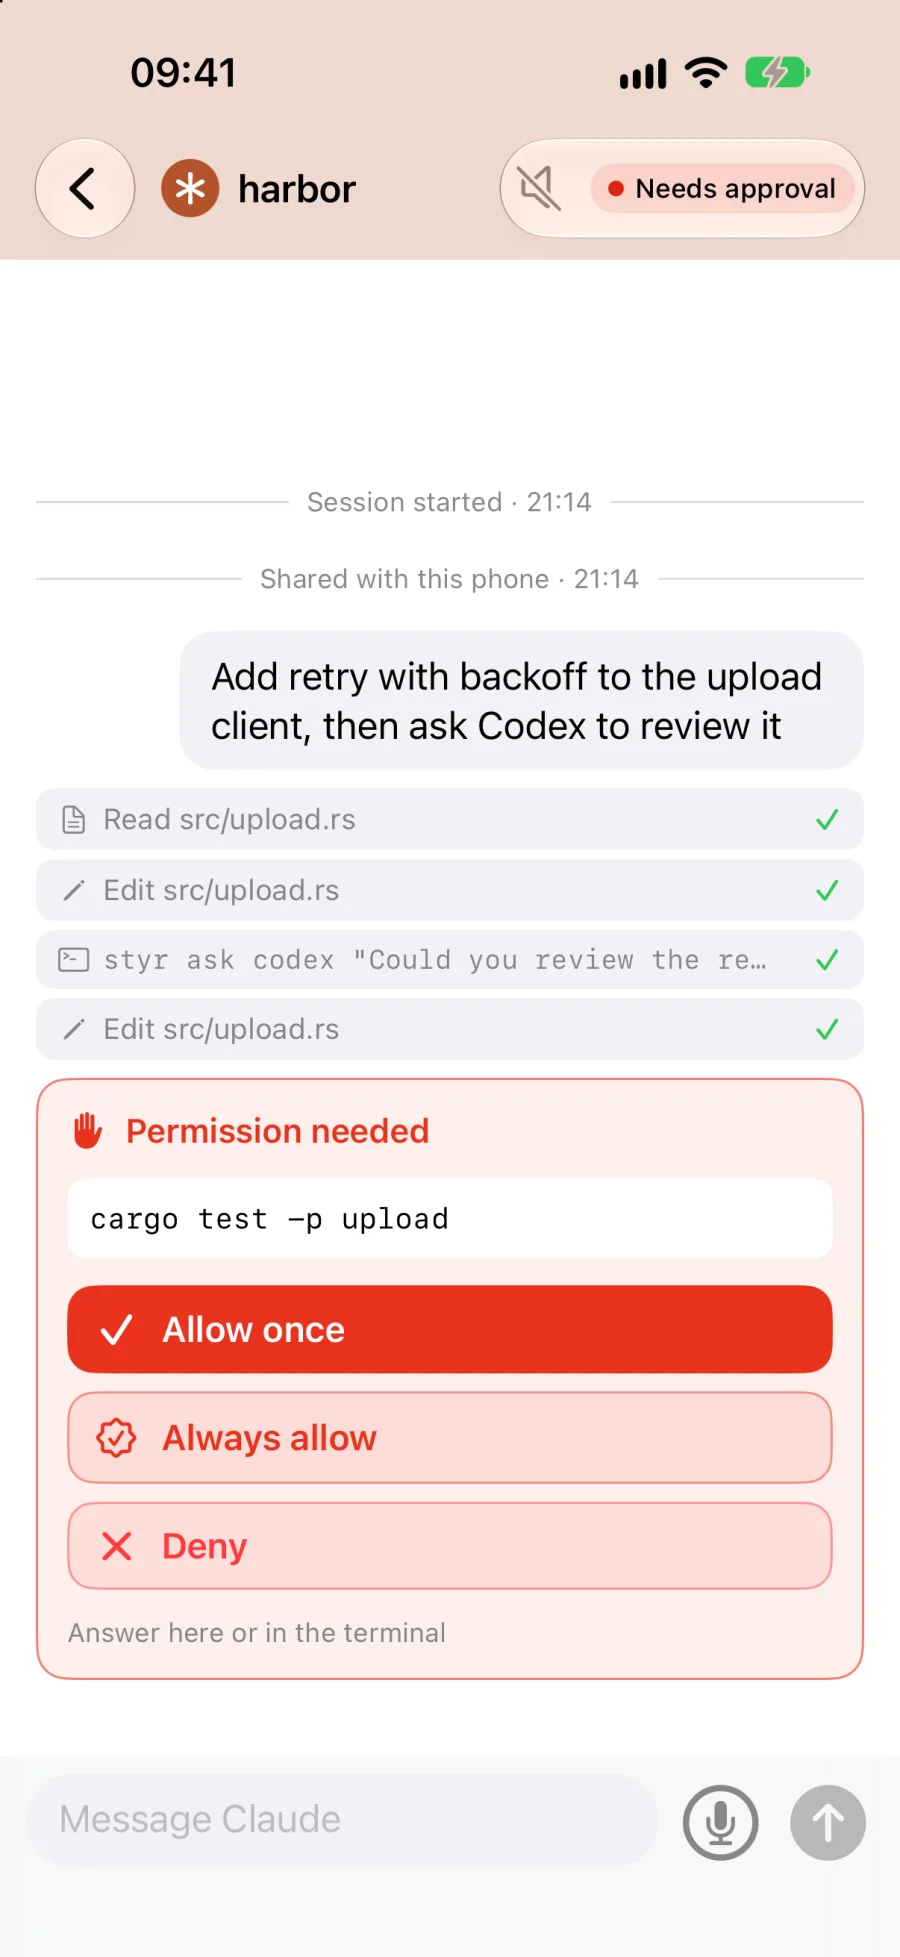
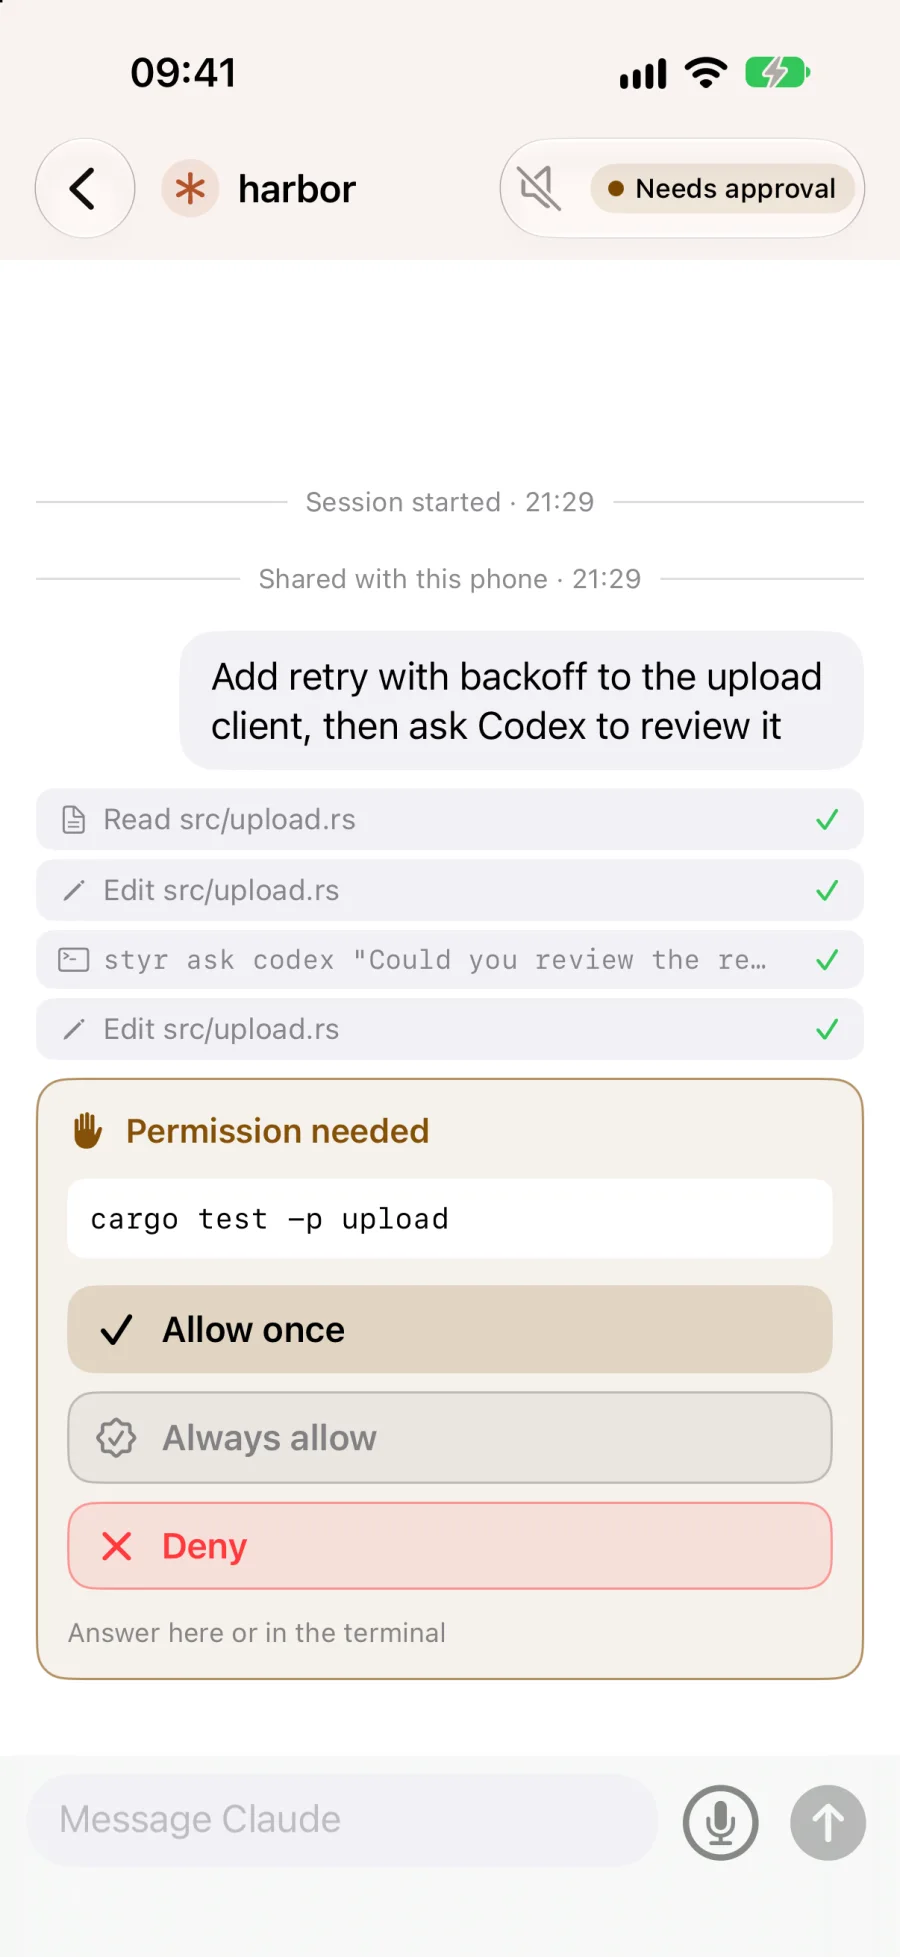
Website: screenshots of the restyled app
Retaken after the app's visual overhaul; the approval-card illustration follows
the new amber card (neutral Allow, red Deny). Preview image refreshed.

diff --git a/site/style.css b/site/style.css
@@ -249,15 +249,15 @@ html.has-js .toast[data-step].gone { opacity: 0; transform: translateY(-8px) sca
   .c-consult { grid-column: span 2; }
 }
 
-.mini-card { margin-top: 1.25rem; padding: .9rem; border-radius: .9rem; background: #fff3f1; border: 1px solid #f5c9c2; }
-.mc-head { display: flex; align-items: center; gap: .45rem; color: var(--signal-deep) !important; font-weight: 700; font-size: .85rem; margin-bottom: .6rem !important; }
-.mc-dot { width: .5rem; height: .5rem; border-radius: 50%; background: var(--signal); }
-@media (prefers-reduced-motion: no-preference) { .mc-dot { animation: pulse 1.6s ease-in-out infinite; } @keyframes pulse { 50% { box-shadow: 0 0 0 5px rgba(232, 50, 30, .18); } } }
+.mini-card { margin-top: 1.25rem; padding: .9rem; border-radius: .9rem; background: #fbf4e6; border: 1px solid #e6d2a8; }
+.mc-head { display: flex; align-items: center; gap: .45rem; color: #855008 !important; font-weight: 700; font-size: .85rem; margin-bottom: .6rem !important; }
+.mc-dot { width: .5rem; height: .5rem; border-radius: 50%; background: #c98a1b; }
+@media (prefers-reduced-motion: no-preference) { .mc-dot { animation: pulse 1.6s ease-in-out infinite; } @keyframes pulse { 50% { box-shadow: 0 0 0 5px rgba(201, 138, 27, .2); } } }
 .mini-card code { display: block; background: #fff; padding: .5rem .6rem; margin-bottom: .6rem; border-radius: .45rem; font-size: .8rem; }
-.mc-btns { display: grid; gap: .35rem; font-size: .8rem; font-weight: 600; color: var(--signal-deep); }
-.mc-btns span { padding: .4rem .6rem; border-radius: .45rem; background: #fde4e0; }
-.mc-btns .mc-allow { background: var(--signal); color: #fff; }
-
+.mc-btns { display: grid; gap: .35rem; font-size: .8rem; font-weight: 600; }
+.mc-btns span { padding: .4rem .6rem; border-radius: .45rem; background: #ece9e2; color: #55595c; border: 1px solid #dad6cc; }
+.mc-btns .mc-allow { background: #e9dcc4; color: var(--ink); border-color: #d9c59e; }
+.mc-btns span:last-child { background: #fbe3e0; color: var(--signal-deep); border-color: #f2bdb6; }
 .status-list { list-style: none; margin: 1.25rem 0 0; padding: 0; display: grid; gap: .5rem; }
 .status-list li { display: flex; align-items: center; gap: .6rem; padding: .6rem .7rem; border-radius: .7rem; background: var(--bg); font-size: .9rem; }
 .status-list b { flex: 1; }
